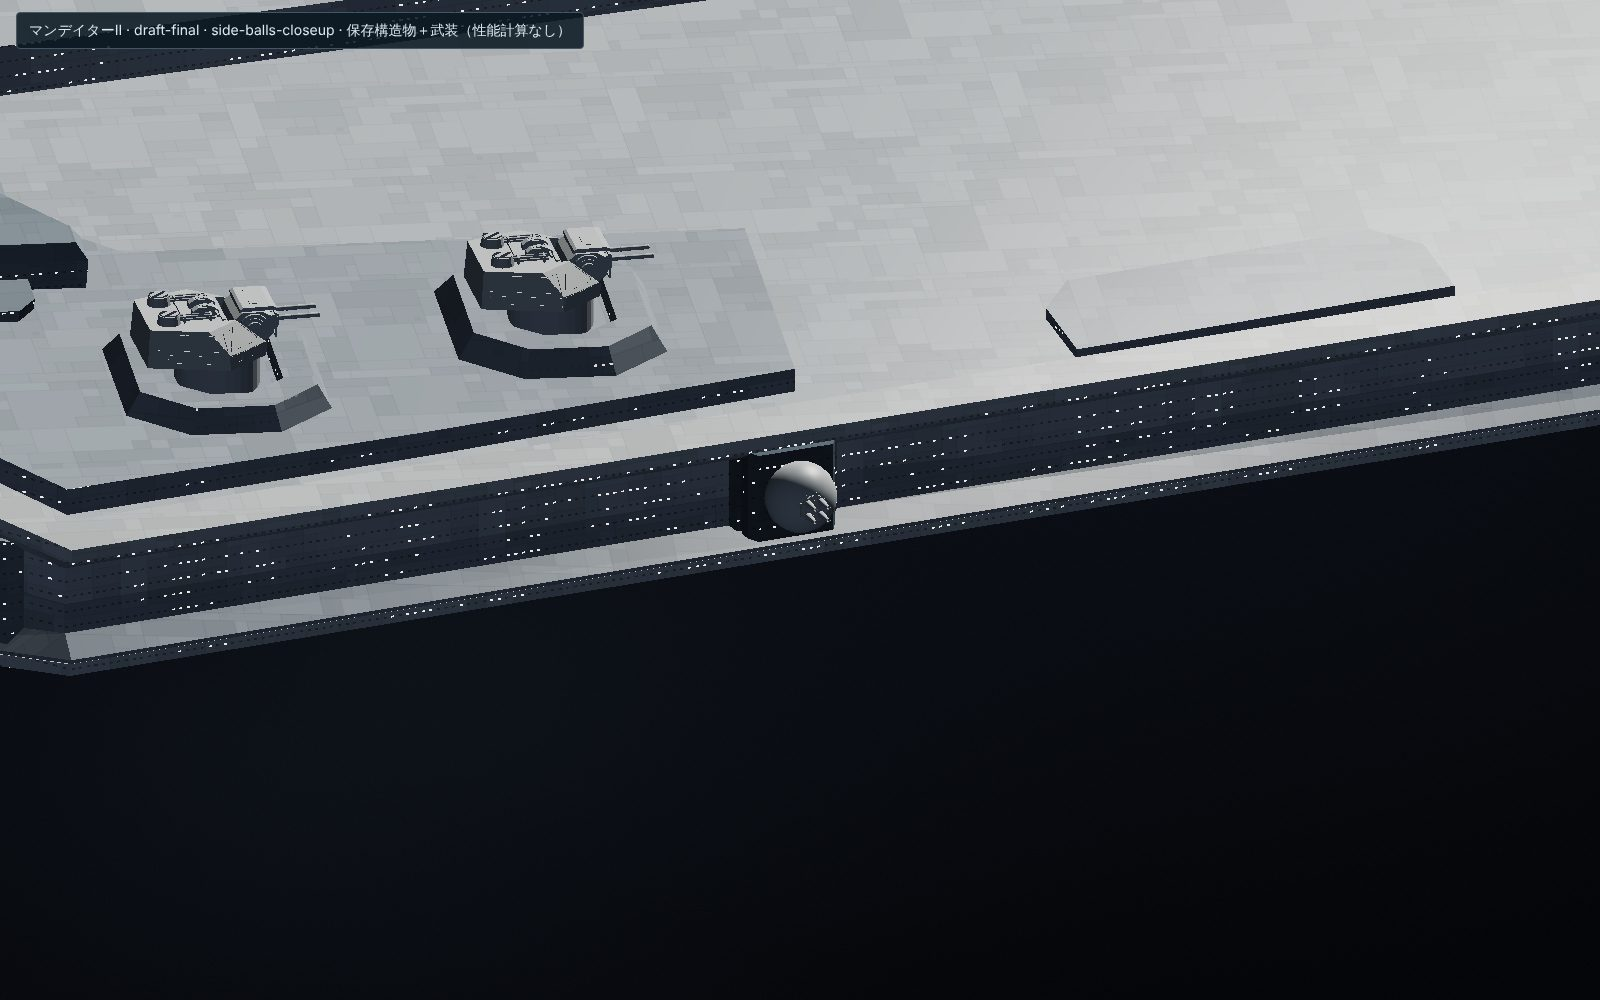
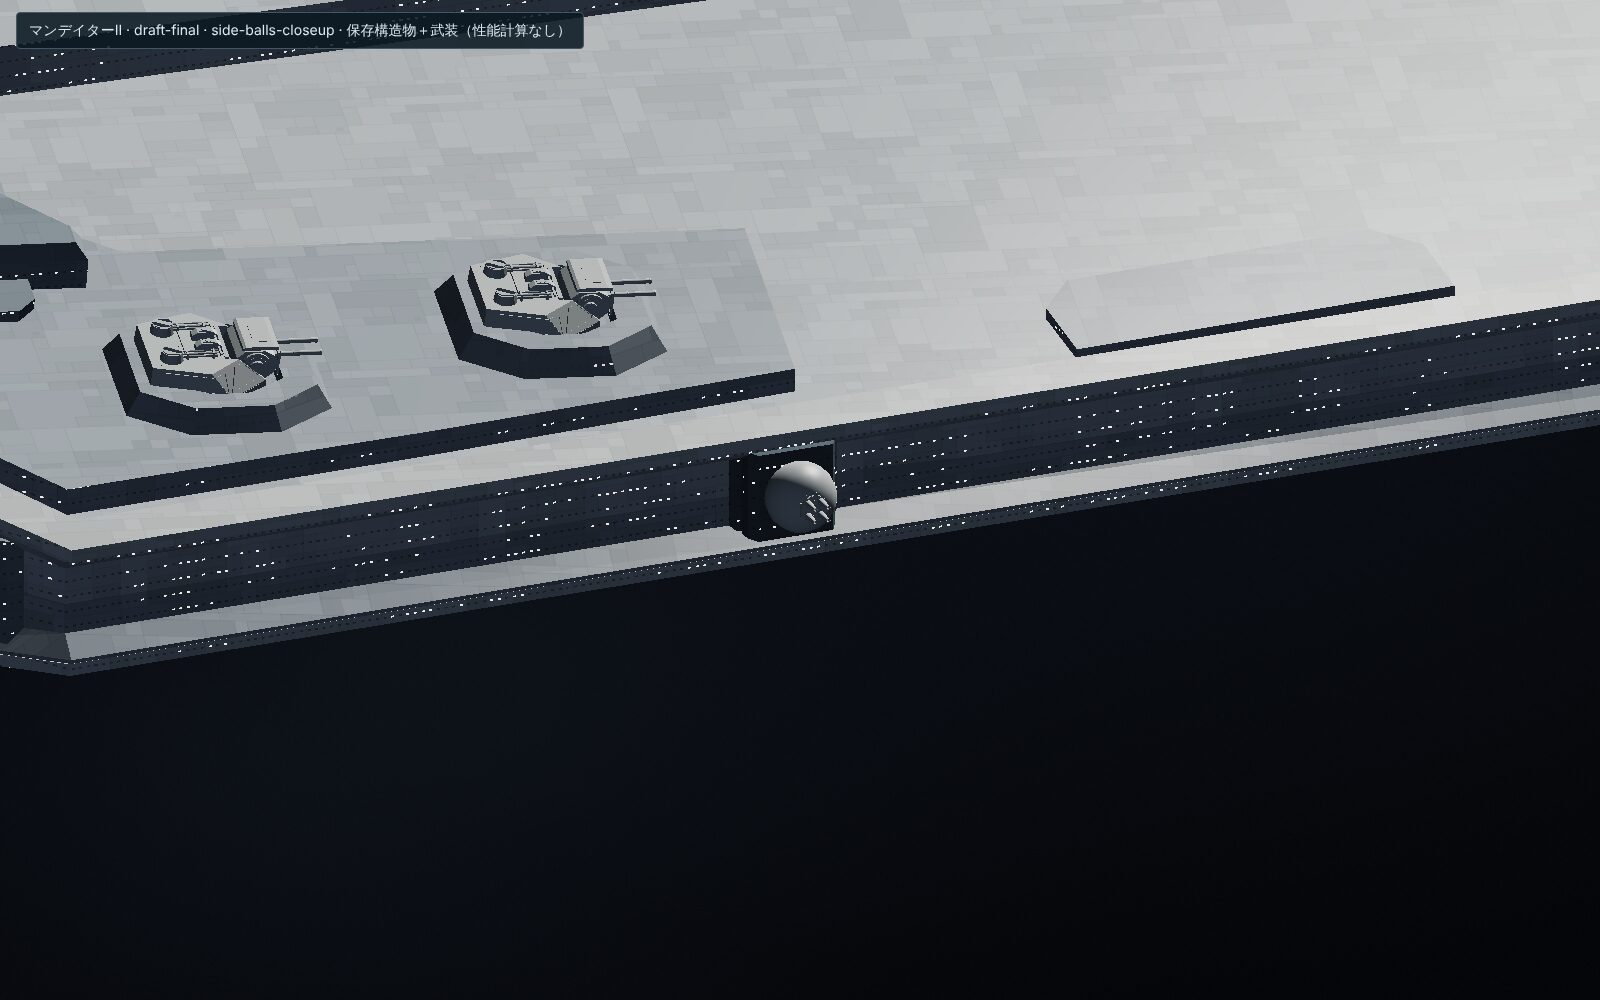
Rewrite the version 7 regeneration notes after the final rebuild; record the review fixes to hatches; final Mandator II renders including the tilted guns
Claude-Session: https://claude.ai/code/session_01GGYoFidvk9725DN9Q24J6T

Changed region(s): [[0.2812, 0.217, 0.4062, 0.341], [0.0625, 0.279, 0.1875, 0.403]]

diff --git a/docs/benchmarks/regeneration-2026-11-21/README.md b/docs/benchmarks/regeneration-2026-11-21/README.md
@@ -15,16 +15,20 @@
 
 ## 版 7 の再生成（2026-11-21、#122 の次の PR）
 
-`EXAMPLE_PROFILE_VERSION` 6 → 7（区画の切り取りを面をつないで行う `clipCompartmentByMesh`）。この PR のほかの変更（ハッチを区画と外板の重なりで決める・台形の扉を保つ、下面の格納庫 3 隻を外板まで下げる、マンデイター II の砲を面に合わせて傾ける、居住区の廃止、機体の価格表）も含めて、全 47 件を `node scripts/refresh-examples.cjs --jobs 3` で作り直した（63 分、コミット `5932bb8`）。
+`EXAMPLE_PROFILE_VERSION` 6 → 7（区画の切り取りを面をつないで行う `clipCompartmentByMesh`）。この PR のほかの変更（ハッチを区画と外板の重なりで決める・台形の扉を保つ、外板に届かない格納庫を外板まで下げる／広げる、マンデイター II の砲を面に合わせて傾ける、居住区の廃止、機体の価格表、詰め込んだ区画どうしのつながりの判定）も含めて、全 47 件を `node scripts/refresh-examples.cjs --jobs 3` で作り直した。最終の作り直しはコミット `58eb793`（68 分。その前の作り直し `0d6476b` との差は providence と providenceDn の戦闘用データだけ。性能表の数値はすべて同じ）。
 
-- 比較の基準：作り直す前の `data/fleet.js`（`2153ee3` で書いたもの。`5b0e157` まで変わっていない）。
+- 比較の基準：版 6 の `data/fleet.js`（`2153ee3` で書いたもの）と、版 6 の設計（`ce7e99a`）。
   - `v7-vs-v6.tsv`：`node compare.cjs <基準> data/fleet.js`
   - `v7-all-numbers.txt`：`node compare-all.cjs <基準> data/fleet.js`。29 隻のうち全数値一致は mc30c、reptransport の 2 隻。
-  - `v7-stats/<key>.txt`：`node stats-diff.cjs <key>`（`5b0e157` の設計と作り直した設計を、同じ現行の計算で比べる。相対差 1e-4 を超える項目）。
-- 主な差（質量・定格の加速。ほかの 26 隻は ±0.35% 以内）：
-  - venator：質量・加速とも ±0.00%（途中の版で起きた −6% の船体容積は、台形の扉を保つ修正で解消。`docs/benchmarks/hatch-overlap-2026-11-21/README.md`）。
-  - recusantDn：質量 +0.65%、加速 +1.64%。慣性補償の支え +1.97%、構造維持の支え −3.32%（`v7-stats/recusantDn.txt`）。部屋の数は慣性補償 167 → 133、構造維持 17 → 82、リパルサー 36 → 9。切り取りが変わって機器の入り方が変わったためと見ているが、**個々の原因は確かめていない**。
-  - lucrehulk：開口面積 +54%（312,800 → 481,187 m²。重なりの判定で格納庫の開口が広がった）、発艦の速さ +54%、被弾しやすさ（`vuln`）+12%、構造維持の支え −8.7%。
-  - gozanti：価格 −69%（531,841 → 164,344）。リパルサーの区画が 107 個 → 2 個にまとまり、区画ごとの固定費が減った（`costBy.systems` 381,564 → 14,065）。リフトの支え +5%。
-  - 区画の数の変化はほかの艦にもある（munificent のリパルサー 53 → 4、慣性補償 52 → 112、deathstar の構造維持 120 → 17 など）。面をつないで切り取ると、細かい断片に分かれなくなるため。
+  - `v7-stats/<key>.txt`：`node stats-diff.cjs <key> ce7e99a`（版 6 の設計と作り直した設計を、同じ現行の計算で比べる。相対差 1e-4 を超える項目）。
+- 質量・定格の加速：recusantDn（質量 +0.65%、加速 +1.64%）のほかは、28 隻とも ±0.35% 以内。
+- 主な差：
+  - recusantDn：計算の変更（版 6 の設計のまま新しい計算）と設計の作り直しに分けると、質量 +0.65%・定格の加速 −0.85%・開口 +36.9%・船体容積 −1.21% は計算の変更、設計の作り直しの差は 0。構造維持の支えは計算で +4.0%、設計で −3.3%。慣性補償の支えは +1.2% と +2.0%。被弾しやすさ（`vuln`）+5.7%（計算）。命中は同じ。部屋の数は慣性補償 166 → 132、構造維持 17 → 82、リパルサー 36 → 9（面をつないで切り取ると、細かい断片に分かれなくなる）。**部屋ごとの原因は確かめていない**。
+  - lucrehulk：開口面積 +54%（312,800 → 481,187 m²）、発艦の速さ +54%、`vuln` +12%、構造維持の支え −8.7%。開口と `vuln` の増加は設計の作り直しで起きる（計算の変更だけでは開口は同じ）。この艦のハッチは船体に焼き込まれていて開口面積（`openArea`）を持たないので、性能計算は切り口の箱の面積を使う。新しい切り口は格納庫の側面全体（例：96 × 340 = 32,640 m²）で左右対称。前の切り口は左右で 6,120〜30,600 m² とばらついていた。外板との重なりを投影した面積はこれより小さい（例：22,555 m²）。**箱の面積で数える点は既知の制約**として残す（`docs/benchmarks/hatch-overlap-2026-11-21/README.md`）。
+  - providence：開口 9,754 → 8,524 m²、発艦の速さ −10%。後部の格納甲板（#24）を両舷の外板まで広げ、側面に 1,785 m² の開口が 2 つできた。その代わり下面の開口が 4,980／4,773 → 4,262／4,262 m² になった。ハッチに通じる格納庫の容積は +0.15%（すべての格納庫がつながる）。
+  - mc80home：格納庫 #72 を外板まで延ばし、発艦の速さ 1.10 → 1.96。
+  - onager：下面の格納庫を約 5.9 m 下げ、発艦の速さ 0.0037 → 1.42（前は幅 1.6 m の開口だけ）。
+  - gozanti：価格 −69%（531,841 → 164,344）。リパルサーの区画が 107 個 → 2 個にまとまり、区画ごとの固定費が減った（`costBy.systems` 381,564 → 14,065）。価格が区画の数に強く左右されるのは、仮の価格式の弱点。
+  - 区画の数の変化はほかの艦にもある（munificent のリパルサー 53 → 4、慣性補償 52 → 112、deathstar の構造維持 120 → 17 など）。
+- 途中の作り直しで見つけて直したもの：providence で「ハッチに通じていない航空区画があります」が新しく出た（格納庫 #181・#196 が孤立、つながる容積 −31%）。#24 の幅が 228 → 229 m になっただけで、重なっていた収納区画 #184 の詰め方が変わり、それが #24 と上の格納甲板 #181 の唯一のつなぎだったと分かった。#181 の詰め込みの単位（セル）は高さ 5.21 m で、#24 の天井との間に 4.44 m のすき間が残る。詰め込んだ区画はセル単位でしか形を作れないので、つながりの判定（`aviationConnected`）の許容を、軸ごとに「1.5 m とその軸のセルの大きさの大きい方」にした（コミット `7ca2dd6`）。この変更で数値が変わった作例は providence だけ（作り直し前後の `data/fleet.js` の比較）。試験 `tests/providence-hangar-access.cjs`。
 - `node scripts/update-asset-manifest.cjs --check`、`node scripts/update-craft-costs.cjs --check` はどちらも通る。

diff --git a/docs/benchmarks/hatch-overlap-2026-11-21/README.md b/docs/benchmarks/hatch-overlap-2026-11-21/README.md
@@ -32,3 +32,17 @@
    - ユーザーの決定（2026-11-21、選択肢から）「区画を外板まで下げる」：判定は変えず、組み立て手順でこの格納庫を、床が区画の下の最も低い外板に届くまで下げる（`seatBayOnSkin`。区画の床の範囲で 5×5 本の下向きの線を船体に当てる）。外板より下に出た部分は、ほかの区画と同じく船体で切り取られる。
    - 下げた量：sample 3 m、onager 約 5.9 m、dreadnaught 約 1.05 m。開口（重なりの面積）は sample 900 m² × 2、onager 約 3,550 m² × 2、dreadnaught 約 1,985 m²（切り欠きは長さ 47.5 m の台形のまま）。
    - sample では、下げる処理を扉（`hatchStrip`）を置く前に行う。後に置くと、外板を探す処理が先に扉の割り当てを動かし、まだ下げていない格納庫には届かないとして扉が消える。
+
+## レビューを受けての修正（2026-11-21、版 7 の最終の作り直し）
+
+物理・回帰レビューの指摘で、重なりの数え方と外板に届かない格納庫の扱いを直し、全作例を作り直した（`0d6476b`、最終 `58eb793`）。
+
+- **外板だけを数える**（`aviationSkinOverlap`）：区画の中を通る船体の面のうち、外から数えて殻の偶奇で外側の面（外板）に当たるものだけを重なりとする。内側の隔壁や、二重の殻の内側の面では開口ができない。
+- **投影した面積で、覆う範囲を上限にする**：開口の面積は、重なった外板をハッチの向きへ投影した面積とし、区画の床の範囲（扉の外形）を超えない。斜めの外板が区画を長く横切っても、床より大きな開口にはならない。
+- **外板まで届かない格納庫**：sample、onager、dreadnaught は区画を下げる（`seatBayOnSkin`、上の節）。providence の後部格納甲板 #24 と mc80home の格納庫 #72 は、下げると他の区画に入り込むので、区画を外板の方向へ延ばす（`extendBayToSkin`）。
+  - providence #24：幅を両舷の外板まで広げた（z ±114 → ±115.73 m）。左右の舷側に 1,785 m² の開口ができ、下面の開口は 4,980／4,773 → 4,262／4,262 m²。開口の合計 9,754 → 8,524 m²、発艦の速さ 4.76 → 4.27（−10%）。
+  - mc80home #72：外板の方向へ z の上端 142 → 151.43 m。発艦の速さ 1.10 → 1.96。
+- **詰め込んだ区画どうしのつながり**（`aviationConnected`、`7ca2dd6`）：#24 を広げると、重なっていた収納区画 #184 の詰め方が変わり、上の格納甲板 #181 とのつなぎが消えて「ハッチに通じていない航空区画があります」が出た。#181 の詰め込みのセルは高さ 5.21 m、#24 の天井とのすき間は 4.44 m。詰め込んだ区画はセル単位でしか形を作れないので、接触の許容を軸ごとに「1.5 m とその軸のセルの大きさの大きい方」にした。最終の設計では警告は無く、全格納庫がハッチに通じる（`tests/providence-hangar-access.cjs`）。
+  - 副作用の可能性：セルの大きい区画どうしは、セル 1 つ分より薄い壁を挟んでもつながったとみなされる。作例ではこの変更で数値が変わったのは providence だけ。
+- **既知の制約：船体に焼き込まれたハッチの面積**：lucrehulk のように船体に焼き込まれたハッチ（`hullOwner`／`hullHatch`）は開口面積（`openArea`）を持たないので、性能計算は切り口の箱の面積を使う。新しい切り口は格納庫の側面全体（例：96 × 340 = 32,640 m²）で、外板との重なりを投影した面積（例：22,555 m²）より大きい。lucrehulk の開口 +54%（312,800 → 481,187 m²）はこのため。ハッチを一度開け閉めし直すと、重なりの面積で記録し直される。
+- 確認（最終の設計、`/tmp/ks-verify/20261121-final-checks/`）：格納庫の前後比較（`ce7e99a` と比べた位置・開口・発艦の速さ）は上の数字と一致。providence の警告は作り直し前と同じ 6 件（つながりの警告は無い）。
